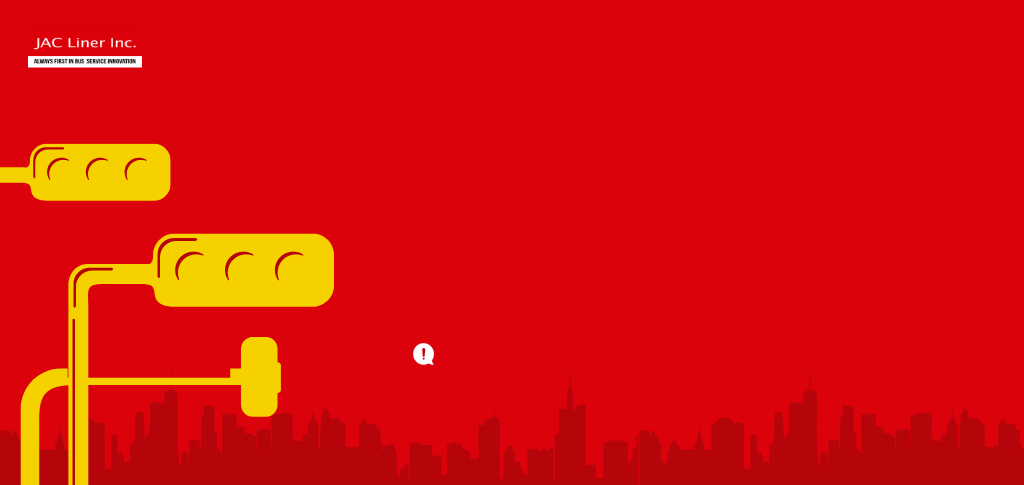
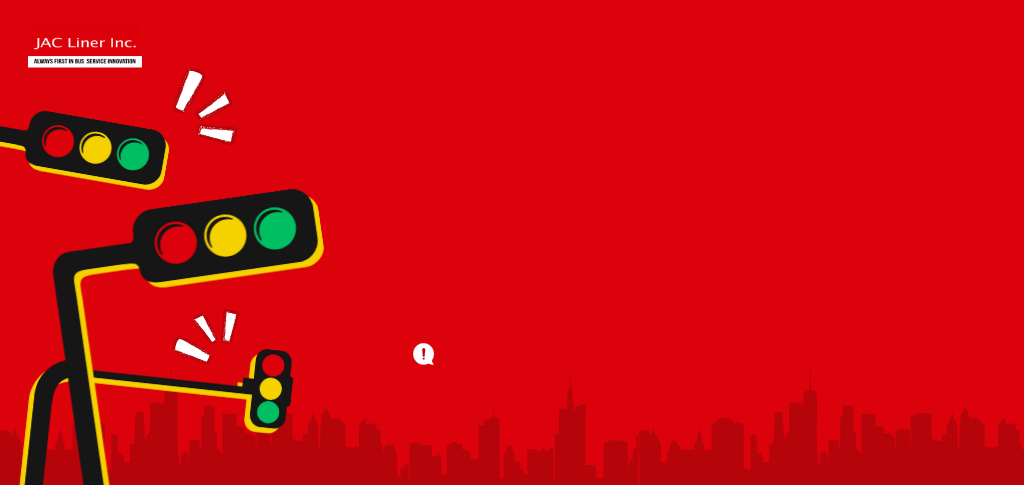
change bg reservation and cancel ticket
++ nilagyan q na hover login pg pero iibahin q pa kulay non

Changed region(s): [[0.0, 0.1237, 0.3438, 1.0]]

diff --git a/src/main/java/com/shivajivarma/brs/ui/LoginPanelView.java b/src/main/java/com/shivajivarma/brs/ui/LoginPanelView.java
@@ -1,6 +1,5 @@
 package com.shivajivarma.brs.ui;
 
-
 import java.awt.Color;
 import java.awt.Graphics;
 import java.awt.Image;
@@ -9,23 +8,22 @@ import java.io.IOException;
 import java.util.ArrayList;
 import java.util.Collections;
 
-
 import javax.imageio.ImageIO;
 import javax.swing.ImageIcon;
 import javax.swing.JButton;
 import javax.swing.JPasswordField;
 import javax.swing.JTextField;
-
+import javax.swing.border.EmptyBorder;
+import javax.swing.event.MouseInputAdapter;
+import java.awt.event.MouseEvent;
 
 import com.shivajivarma.brs.utility.ValidationUtil;
 import com.shivajivarma.brs.utility.ViewComponentFactory;
 import com.shivajivarma.brs.utility.constants.Labels;
 import com.shivajivarma.brs.utility.constants.ResourcePaths;
 
-
 @SuppressWarnings("serial")
 public class LoginPanelView extends BaseView implements View {
-
 
     // UI Components
     private JTextField username;
@@ -35,8 +33,6 @@ public class LoginPanelView extends BaseView implements View {
     private Image backgroundImage;
     private boolean passwordVisible = false;
     private ImageIcon showIcon, hideIcon;
-     // Yellow color
-
 
     /**
      * Constructor to initialize UI components and set up the view.
@@ -44,11 +40,9 @@ public class LoginPanelView extends BaseView implements View {
     public LoginPanelView() {
         super(); // Call superclass constructor
 
-
         try {
             // Load the background image using ResourcePaths.BANNER
             backgroundImage = ImageIO.read(getClass().getResource(ResourcePaths.LOGIN));
-
 
             // Load eye icons for password toggle
             showIcon = new ImageIcon(ImageIO.read(getClass().getResource(ResourcePaths.EYE_OPEN)));
@@ -57,23 +51,19 @@ public class LoginPanelView extends BaseView implements View {
             e.printStackTrace(); // Handle loading error here
         }
 
-
         initializeLabels();
         initializeComponents();
     }
 
-
     @Override
     protected void paintComponent(Graphics g) {
         super.paintComponent(g);
-
 
         // Draw the background image
         if (backgroundImage != null) {
             g.drawImage(backgroundImage, 0, 0, getWidth(), getHeight(), this);
         }
     }
-
 
     private void initializeLabels() {
         Color jacliner = new Color(246, 209, 0);
@@ -82,46 +72,47 @@ public class LoginPanelView extends BaseView implements View {
         add(ViewComponentFactory.createJLabelNormal(Labels.PASSWORD, new int[] { x + 305, y + 105, 150, 20 }, Color.white));
     }
 
-
     private void initializeComponents() {
         Color jaclinery = new Color(248, 188, 8);
         Insets insets = new Insets(5, 10, 3, 10);
 
-
         username = ViewComponentFactory.createJTextFieldNormal(new int[] { x + 305, y + 55, 365, 30 });
         username.setMargin(insets);
-
 
         password = ViewComponentFactory.createJPasswordFieldNormal(new int[] { x + 305, y + 135, 310, 30 });
         password.setMargin(insets);
         password.setEchoChar('•');
 
-
         // Toggle button to show/hide password using eye icons
         togglePasswordButton = new JButton(hideIcon);
         togglePasswordButton.setBounds(x + 625, y + 135, 35, 30);
-        togglePasswordButton.setOpaque(true); 
-        togglePasswordButton.setBackground(Color.YELLOW); 
-        togglePasswordButton.setFocusPainted(false);    
-        togglePasswordButton.setBorderPainted(false); 
+        togglePasswordButton.setOpaque(true);
+        togglePasswordButton.setBackground(Color.YELLOW);
+        togglePasswordButton.setFocusPainted(false);
+        togglePasswordButton.setBorderPainted(false);
         togglePasswordButton.addActionListener(e -> togglePasswordVisibility());
-
 
         loginButton = ViewComponentFactory.createJButtonNormal(Labels.LOGINB, new int[] { x + 375, y + 210, 90, 40 }, Color.white, jaclinery);
         registerButton = ViewComponentFactory.createJButtonNormal(Labels.REGISTER, new int[] { x + 480, y + 210, 120, 40 }, Color.white, jaclinery);
 
-
+        loginButton.setFocusPainted(false);
         loginButton.setBorderPainted(false);
+        loginButton.setBorder(new EmptyBorder(0, 0, 0, 0));
+        
+        registerButton.setFocusPainted(false);
         registerButton.setBorderPainted(false);
+        registerButton.setBorder(new EmptyBorder(0, 0, 0, 0));
+        
 
+
+        addHoverEffect(loginButton, jaclinery, jaclinery.darker(), Color.white, Color.black);
+        addHoverEffect(registerButton, jaclinery, Color.white, Color.white, Color.black);
 
         username.setName(Labels.USERNAME);
         password.setName(Labels.PASSWORD);
 
-
         inputFields.add(username);
         inputFields.add(password);
-
 
         add(username);
         add(password);
@@ -129,7 +120,6 @@ public class LoginPanelView extends BaseView implements View {
         add(registerButton);
         add(togglePasswordButton); // Add toggle button to the panel
     }
-
 
     private void togglePasswordVisibility() {
         if (passwordVisible) {
@@ -144,19 +134,33 @@ public class LoginPanelView extends BaseView implements View {
         passwordVisible = !passwordVisible;
     }
 
+    private void addHoverEffect(JButton button, Color originalColor, Color hoverColor, Color originalTextColor, Color hoverTextColor) {
+        button.setBackground(originalColor);
+        button.setForeground(originalTextColor);
+        button.addMouseListener(new MouseInputAdapter() {
+            @Override
+            public void mouseEntered(MouseEvent e) {
+                button.setBackground(hoverColor);
+                button.setForeground(hoverTextColor);
+            }
+
+            @Override
+            public void mouseExited(MouseEvent e) {
+                button.setBackground(originalColor);
+                button.setForeground(originalTextColor);
+            }
+        });
+    }
 
     public boolean validateFields() {
         ArrayList<String> errors = new ArrayList<>();
         String message;
 
-
         message = ValidationUtil.validateField(username, new String[] { "required", "username" });
         errors.add(message);
 
-
         message = ValidationUtil.validateField(password, new String[] { "required", "noSpaces" });
         errors.add(message);
-
 
         errors.removeAll(Collections.singleton(null));
         if (!errors.isEmpty()) {
@@ -170,26 +174,19 @@ public class LoginPanelView extends BaseView implements View {
         return true;
     }
 
-
     public String getUsername() {
         return username.getText().toLowerCase();
     }
-
 
     public String getPassword() {
         return new String(password.getPassword());
     }
 
-
     public JButton getLoginButton() {
         return loginButton;
     }
-
 
     public JButton getRegisterButton() {
         return registerButton;
     }
 }
-
-
-

diff --git a/src/main/java/com/shivajivarma/brs/ui/CancellationTabView.java b/src/main/java/com/shivajivarma/brs/ui/CancellationTabView.java
@@ -53,7 +53,7 @@ public class CancellationTabView extends BaseView implements View{
 	private void initializeLabels() {
 		this.add(ViewComponentFactory.createJLabelMidNormal(Labels.ENTER_TICKET_ID, new int[]{100, 130, 200, 20}, Color.white));
 		
-		this.add(ViewComponentFactory.createJLabelNormal(Labels.REMINDER, new int[]{60, 295, 200, 20}, Color.white));
+		this.add(ViewComponentFactory.createJLabelNormal(Labels.REMINDER, new int[]{59, 293, 200, 20}, Color.white));
 	}
 	
 	private void initializeComponents() {
